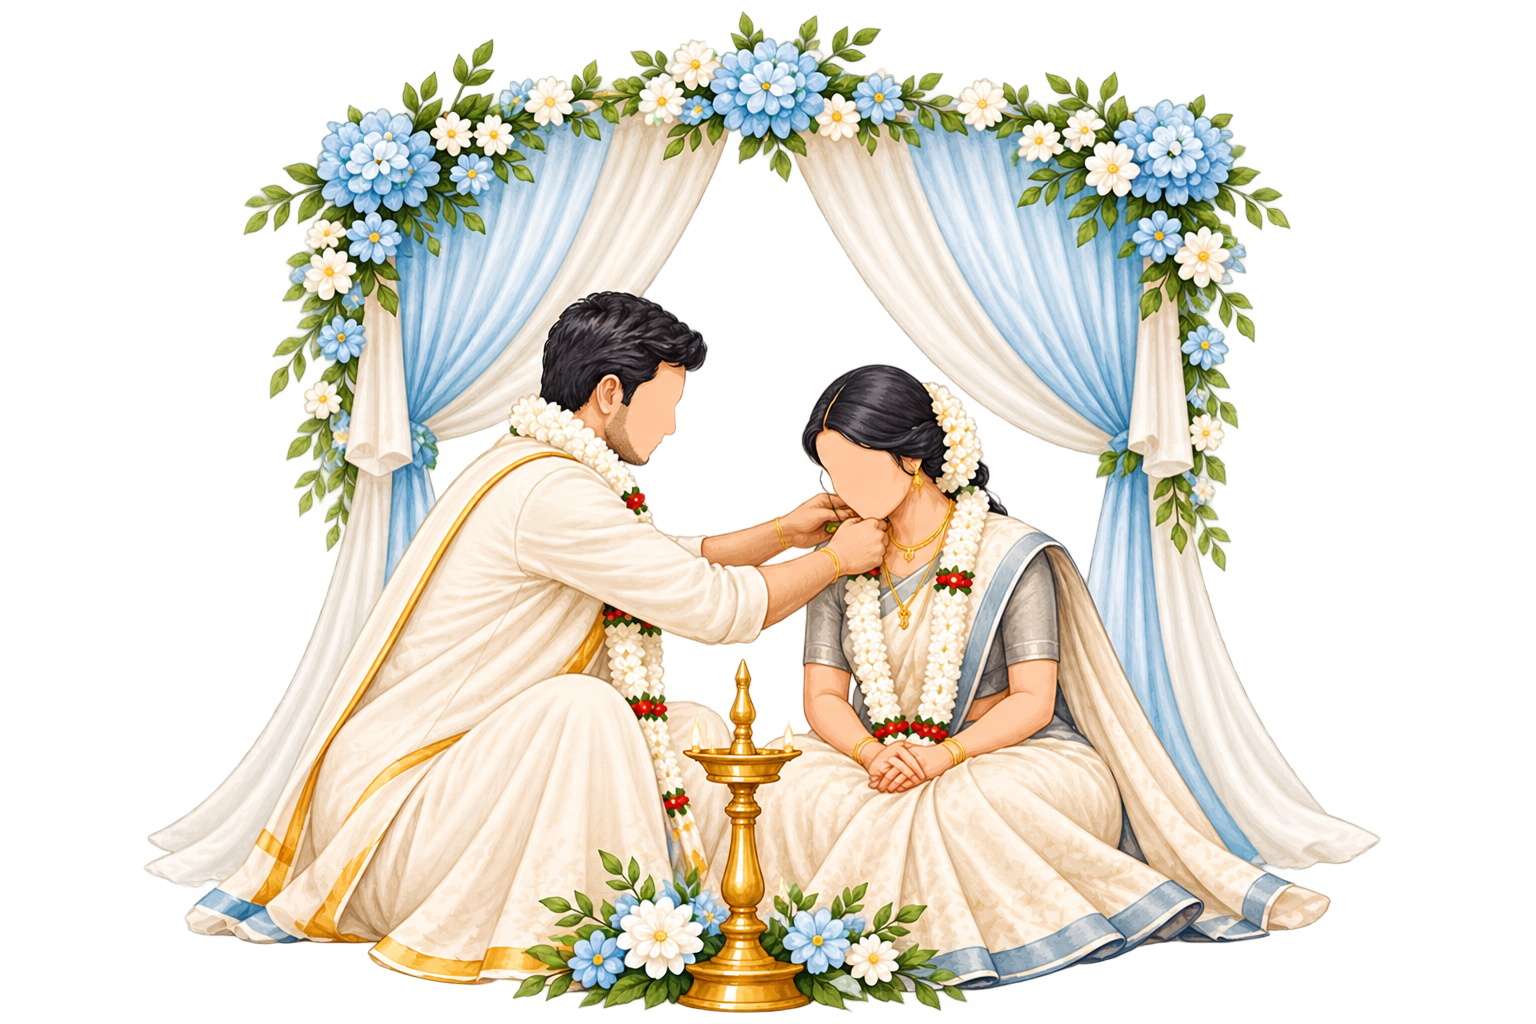
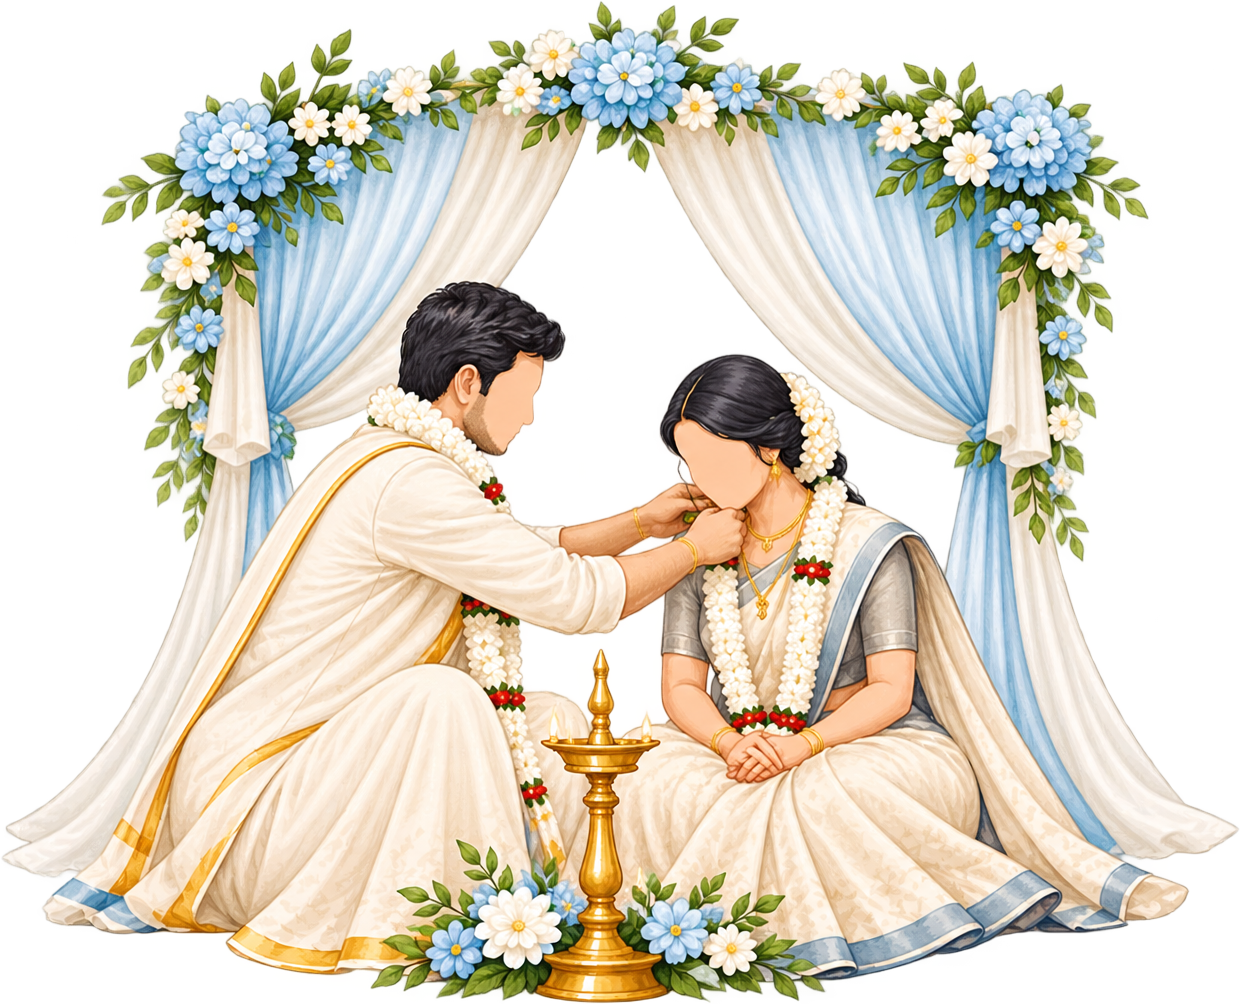
fix(chiranjeevi): set closed envelope poster, add tap hint, delay music until hero reveal, and match event image alignment and scale

diff --git a/invitations/chiranjeevi-k-s-weds-anusha-m/index.html b/invitations/chiranjeevi-k-s-weds-anusha-m/index.html
@@ -39,8 +39,8 @@
   <section class="section reveal"><p class="eyebrow intro-family-line">Together with our families</p><p class="display">You are warmly invited</p><div class="ornament"><span class="diamond"></span></div><p class="lede">With immense joy and the blessings of our elders, we invite you to be part of our wedding celebration. Your presence and good wishes will make our day even more special.</p></section>
   <section class="date-wrap reveal"><div class="date-inner"><div class="date-frame"><p class="date-frame__date">25 &amp; 26 November <span class="date-frame__year">2026</span></p><p class="date-frame__weekday">Wednesday &amp; Thursday</p></div></div></section>
   <section class="events-wrap"><div class="events-inner"><div class="events-head reveal"><p class="events-eyebrow">Our <span class="blessed">Wedding</span> Celebrations</p></div>
-    <div class="event reveal"><p class="event__k">Reception</p><div class="event__media"><img src="./assets/images/reception.webp" alt="Wedding reception illustration" loading="lazy" decoding="async" width="941" height="941" /></div><div class="event__details"><p class="event__t">Wednesday, 25 November 2026</p><div class="event__rule"></div><p class="event__d"><strong>7:00 PM onwards</strong><br />Police Bhavana, Sagara Road, Shivamogga</p></div></div>
-    <div class="event reveal"><p class="event__k">Muhurtham</p><div class="event__media"><img src="./assets/images/muhurtham.png" alt="Wedding ceremony illustration" loading="lazy" decoding="async" width="1536" height="1024" /></div><div class="event__details"><p class="event__t">Thursday, 26 November 2026</p><div class="event__rule"></div><p class="event__d"><strong>9:30 AM onwards</strong><br />Police Bhavana, Sagara Road, Shivamogga</p></div></div>
+    <div class="event reveal"><p class="event__k">Reception</p><div class="event__media event__media--reception"><img src="./assets/images/reception.webp" alt="Wedding reception illustration" loading="lazy" decoding="async" width="941" height="941" /></div><div class="event__details"><p class="event__t">Wednesday, 25 November 2026</p><div class="event__rule"></div><p class="event__d"><strong>7:00 PM onwards</strong><br />Police Bhavana, Sagara Road, Shivamogga</p></div></div>
+    <div class="event reveal"><p class="event__k">Muhurtham</p><div class="event__media event__media--muhurtham"><img src="./assets/images/muhurtham.png" alt="Wedding ceremony illustration" loading="lazy" decoding="async" width="1240" height="1004" /></div><div class="event__details"><p class="event__t">Thursday, 26 November 2026</p><div class="event__rule"></div><p class="event__d"><strong>9:30 AM onwards</strong><br />Police Bhavana, Sagara Road, Shivamogga</p></div></div>
   </div></section>
   <section class="countdown-wrap reveal"><div class="countdown-inner"><p class="eyebrow">Counting Down</p><div class="countdown-clock" id="weddingClock" aria-label="Countdown to the wedding"><div class="countdown-unit"><span class="countdown-num" id="cdDays">00</span><span class="countdown-label">Days</span></div><span class="countdown-sep" aria-hidden="true"></span><div class="countdown-unit"><span class="countdown-num" id="cdHours">00</span><span class="countdown-label">Hours</span></div><span class="countdown-sep" aria-hidden="true"></span><div class="countdown-unit"><span class="countdown-num" id="cdMins">00</span><span class="countdown-label">Minutes</span></div><span class="countdown-sep" aria-hidden="true"></span><div class="countdown-unit"><span class="countdown-num" id="cdSecs">00</span><span class="countdown-label">Seconds</span></div></div><p class="countdown-sub" id="cdSub">Until we celebrate together</p></div></section>
   <section class="rsvp-wrap"><div class="rsvp-envelope reveal"><div class="rsvp-card" id="rsvpForm"><div id="rsvpCardBody"><p class="rsvp-eyebrow">Kindly Respond</p><p class="rsvp-title">Will you join us?</p><p class="rsvp-quote">Your presence is the blessing<br />we look forward to.</p><input id="rsvpName" class="rsvp-input" type="text" placeholder="Your name" autocomplete="name" /><div class="rsvp-attend"><input type="radio" id="aAccept" name="attend" value="accept" checked /><label for="aAccept">Joyfully accept</label><input type="radio" id="aDecline" name="attend" value="decline" /><label for="aDecline">Regretfully decline</label></div><div class="rsvp-collapse" id="guestsWrap"><div class="rsvp-stepper"><button type="button" id="guestMinus" aria-label="One fewer guest">&minus;</button><span class="count" id="guestCount">1</span><button type="button" id="guestPlus" aria-label="One more guest">+</button></div></div><p class="rsvp-note">RSVP contact details will be added.</p><!-- [SOURCE CONTENT PENDING: RSVP phone/contact and submission service] --><button type="button" class="rsvp-submit" id="rsvpSubmit" disabled>RSVP details pending</button></div></div></div></section>
@@ -49,8 +49,8 @@
   <section class="wishes-wrap"><div class="wishes-inner reveal"><p class="eyebrow">For The Couple</p><p class="display">A Wishes Wall</p><p class="lede">Leave a few words for Chiranjeevi and Anusha — a prayer, a memory, or a wish for the years ahead.</p><div class="wishes-form"><div class="wish-field" id="wishNameField"><label for="wishName">Your name</label><input id="wishName" type="text" placeholder="Your name" autocomplete="name" /></div><div class="wish-field" id="wishMsgField"><label for="wishMsg">Your message</label><textarea id="wishMsg" rows="3" placeholder="Write your wishes"></textarea></div><p class="wish-err" id="wishErr" role="alert"></p><button type="button" class="wish-submit" id="wishSubmit" disabled>Wishes service pending</button><!-- [SOURCE CONTENT PENDING: wishes wall submission service] --></div></div></section>
   <footer class="site-footer" id="siteFooter"><div class="footer-mark"><div class="mono">C &amp; A</div><div class="sub">25 | 26 November | 2026</div></div><video class="site-footer__video" id="footerVideo" src="./assets/videos/footer-bg.mp4" autoplay muted loop playsinline aria-hidden="true"></video><div class="footer-credit">Lovingly crafted by InvCraft Media</div></footer>
 </main>
-<div class="welcome" id="welcome" role="dialog" aria-label="Open the wedding invitation"><video class="w-envelope" id="weiVideo" src="./assets/videos/intro-final.mp4" muted playsinline poster="./assets/images/envelope.webp" preload="auto" aria-label="Wedding invitation intro video"></video><button class="w-tap" id="wTap" type="button" aria-label="Open the invitation"></button></div>
-<iframe id="youtubeAudio" class="youtube-audio" src="https://www.youtube.com/embed/AqmYL3HTEJ0?enablejsapi=1&autoplay=1&mute=1&controls=0&loop=1&playlist=AqmYL3HTEJ0&playsinline=1" title="Wedding background music" allow="autoplay; encrypted-media" referrerpolicy="strict-origin-when-cross-origin"></iframe>
+<div class="welcome" id="welcome" role="dialog" aria-label="Open the wedding invitation"><video class="w-envelope" id="weiVideo" src="./assets/videos/intro-final.mp4" muted playsinline poster="./assets/images/envelope-poster.webp" preload="auto" aria-label="Wedding invitation intro video"></video><div class="w-hint show" id="wHint"><span class="label">Tap to open</span><span class="w-chevron" aria-hidden="true"></span></div><button class="w-tap" id="wTap" type="button" aria-label="Open the invitation"></button></div>
+<iframe id="youtubeAudio" class="youtube-audio" title="Wedding background music" allow="autoplay; encrypted-media" referrerpolicy="strict-origin-when-cross-origin"></iframe>
 <button class="music-toggle" id="musicToggle" data-muted="true" aria-label="Play music" title="Play music"><span class="mt-icon icon-playing" aria-hidden="true"><svg viewBox="0 0 20 20" fill="none"><rect class="bar" x="2.6" y="3" width="2.6" height="12" rx="1.3" fill="var(--coral)"/><rect class="bar" x="6.6" y="3" width="2.6" height="12" rx="1.3" fill="var(--coral)"/><rect class="bar" x="10.6" y="3" width="2.6" height="12" rx="1.3" fill="var(--coral)"/><rect class="bar" x="14.6" y="3" width="2.6" height="12" rx="1.3" fill="var(--coral)"/></svg></span><span class="mt-icon icon-muted" aria-hidden="true"><svg viewBox="0 0 20 20" fill="none" stroke="var(--coral)" stroke-width="1.4" stroke-linecap="round" stroke-linejoin="round"><path d="M3 7h2.5L10 3v14l-4.5-4H3V7z"/><line x1="14" y1="7" x2="18" y2="13"/><line x1="18" y1="7" x2="14" y2="13"/></svg></span></button>
 <script src="./script.js" defer></script>
 </body></html>

diff --git a/invitations/chiranjeevi-k-s-weds-anusha-m/style.css b/invitations/chiranjeevi-k-s-weds-anusha-m/style.css
@@ -369,8 +369,24 @@
 
   .event{ max-width:520px; margin:0 auto 64px; text-align:center; }
   .event:last-child{ margin-bottom:0; }
-  .event__k{ font-family:"Cinzel", serif; font-weight:500; font-size:13px; letter-spacing:.3em; text-transform:uppercase; color:var(--gold); }
-  .event__media{ width:min(76vw,340px); height:min(76vw,320px); margin:20px auto 22px; display:flex; align-items:center; justify-content:center; }
+  .event__k{
+    font-family:"Cinzel", serif; font-weight:500; font-size:13px; letter-spacing:.3em;
+    text-transform:uppercase; color:var(--gold); margin:0 0 16px; line-height:1.2;
+  }
+  .event__media{
+    margin:0 auto 20px;
+    display:flex;
+    align-items:center;
+    justify-content:center;
+  }
+  .event__media--reception{
+    width:min(72vw, 290px);
+    height:min(72vw, 290px);
+  }
+  .event__media--muhurtham{
+    width:min(86vw, 350px);
+    height:min(72vw, 290px);
+  }
   .event__media img{
     max-width:100%; max-height:100%; width:auto; height:auto; object-fit:contain; display:block;
     filter:drop-shadow(0 18px 28px rgba(139,74,58,.15));
@@ -670,33 +686,36 @@
     pointer-events:none;
   }
   .w-hint{
-    position:absolute; left:50%; bottom:22%; text-align:center;
-    transform:translateX(-50%) translateY(6px); opacity:0;
-    display:flex; flex-direction:column; align-items:center; gap:9px;
-    pointer-events:none; z-index:3;
-    transition:opacity .8s ease, transform .8s ease;
+    position:absolute; left:50%; bottom:clamp(24px, 7vh, 48px); text-align:center;
+    transform:translateX(-50%) translateY(0); opacity:1;
+    display:flex; flex-direction:column; align-items:center; gap:8px;
+    pointer-events:none; z-index:10;
+    transition:opacity .5s ease, transform .5s ease;
   }
+  .w-hint.hide{ opacity:0; transform:translateX(-50%) translateY(10px); }
   .w-hint.show{ opacity:1; transform:translateX(-50%) translateY(0); animation:hintBreathe 2.8s ease-in-out .4s infinite; }
 @keyframes hintBreathe{
   0%,100%{ transform:translateX(-50%) translateY(0) scale(1); }
-  50%{     transform:translateX(-50%) translateY(0) scale(1.035); }
+  50%{     transform:translateX(-50%) translateY(0) scale(1.04); }
 }
   .w-chevron{
     width:10px; height:10px;
-    border-right:1.5px solid var(--gold);
-    border-top:1.5px solid var(--gold);
+    border-right:1.5px solid #FAF0B7;
+    border-top:1.5px solid #FAF0B7;
     transform:rotate(135deg);
+    filter:drop-shadow(0 2px 4px rgba(0,0,0,.6));
     animation:wChevron 2.4s ease-in-out infinite;
   }
   @keyframes wChevron{
-    0%,100%{ transform:rotate(135deg) translate(0,0); opacity:.65; }
+    0%,100%{ transform:rotate(135deg) translate(0,0); opacity:.75; }
     50%{ transform:rotate(135deg) translate(-2px,2px); opacity:1; }
   }
   .w-hint .label{
-    font-family:"Cinzel", serif; font-weight:500;
-    font-size:clamp(10px,2.8vw,12px);
+    font-family:"Cinzel", serif; font-weight:600;
+    font-size:clamp(11px,3.2vw,13px);
     letter-spacing:.32em; text-transform:uppercase;
-    color:var(--coral); opacity:.85;
+    color:#FAF0B7;
+    text-shadow:0 2px 10px rgba(0,0,0,.7);
   }
   .w-tap{ position:absolute; inset:0; z-index:4; background:transparent; border:0; cursor:pointer; -webkit-tap-highlight-color:transparent; }
   .w-tap:focus-visible{ outline:2px solid var(--gold); outline-offset:-6px; }

diff --git a/invitations/chiranjeevi-k-s-weds-anusha-m/script.js b/invitations/chiranjeevi-k-s-weds-anusha-m/script.js
@@ -27,28 +27,11 @@
     }
   }
 
-  function playMusicNow(){
+  function startMusicAfterIntro(){
     if (muted) setMusicState(false);
     musicCommand('unMute');
-    musicCommand('setVolume', [60]);
+    musicCommand('setVolume', [70]);
     musicCommand('playVideo');
-  }
-
-  function startMusic(){
-    if (muted) return;
-    if (!musicStarted) {
-      musicStarted = true;
-      if (!audioFrame.getAttribute('src')) {
-        audioFrame.src = 'https://www.youtube.com/embed/' + track + '?enablejsapi=1&autoplay=1&controls=0&loop=1&playlist=' + track + '&playsinline=1';
-      } else {
-        musicCommand('unMute');
-        musicCommand('setVolume', [60]);
-        musicCommand('playVideo');
-      }
-    } else {
-      musicCommand('unMute');
-      musicCommand('playVideo');
-    }
   }
 
   function revealHome(){
@@ -69,14 +52,22 @@
     welcome.classList.add('gone');
     window.setTimeout(function(){ welcome.style.display = 'none'; }, 1250);
     revealHome();
+    startMusicAfterIntro();
   }
 
   function openInvitation(){
     if (opened) return;
     opened = true;
+    var hint = document.getElementById('wHint');
+    if (hint) {
+      hint.classList.remove('show');
+      hint.classList.add('hide');
+    }
+    // Preload YouTube player muted while intro plays
+    if (audioFrame && !audioFrame.getAttribute('src')) {
+      audioFrame.src = 'https://www.youtube.com/embed/' + track + '?enablejsapi=1&autoplay=1&mute=1&controls=0&loop=1&playlist=' + track + '&playsinline=1';
+    }
     intro.loop = false;
-    setMusicState(false);
-    playMusicNow();
     try { intro.currentTime = 0; } catch(error) {}
     var playPromise = intro.play();
     if (playPromise && playPromise.catch) {
@@ -108,9 +99,9 @@
     });
   }
 
-  // Pre-unmute on user interaction
+  // Ensure music plays after intro finishes if browser needs interaction
   var handleGlobalGesture = function(){
-    if (opened && !muted) {
+    if (finished && !muted) {
       musicCommand('unMute');
       musicCommand('playVideo');
     }
@@ -121,10 +112,12 @@
 
   if (audioFrame) {
     audioFrame.addEventListener('load', function(){
-      if (!muted) {
-        musicCommand('unMute');
-        musicCommand('setVolume', [60]);
-        musicCommand('playVideo');
+      if (finished && !muted) {
+        setTimeout(function(){
+          musicCommand('unMute');
+          musicCommand('setVolume', [70]);
+          musicCommand('playVideo');
+        }, 300);
       }
     });
   }
